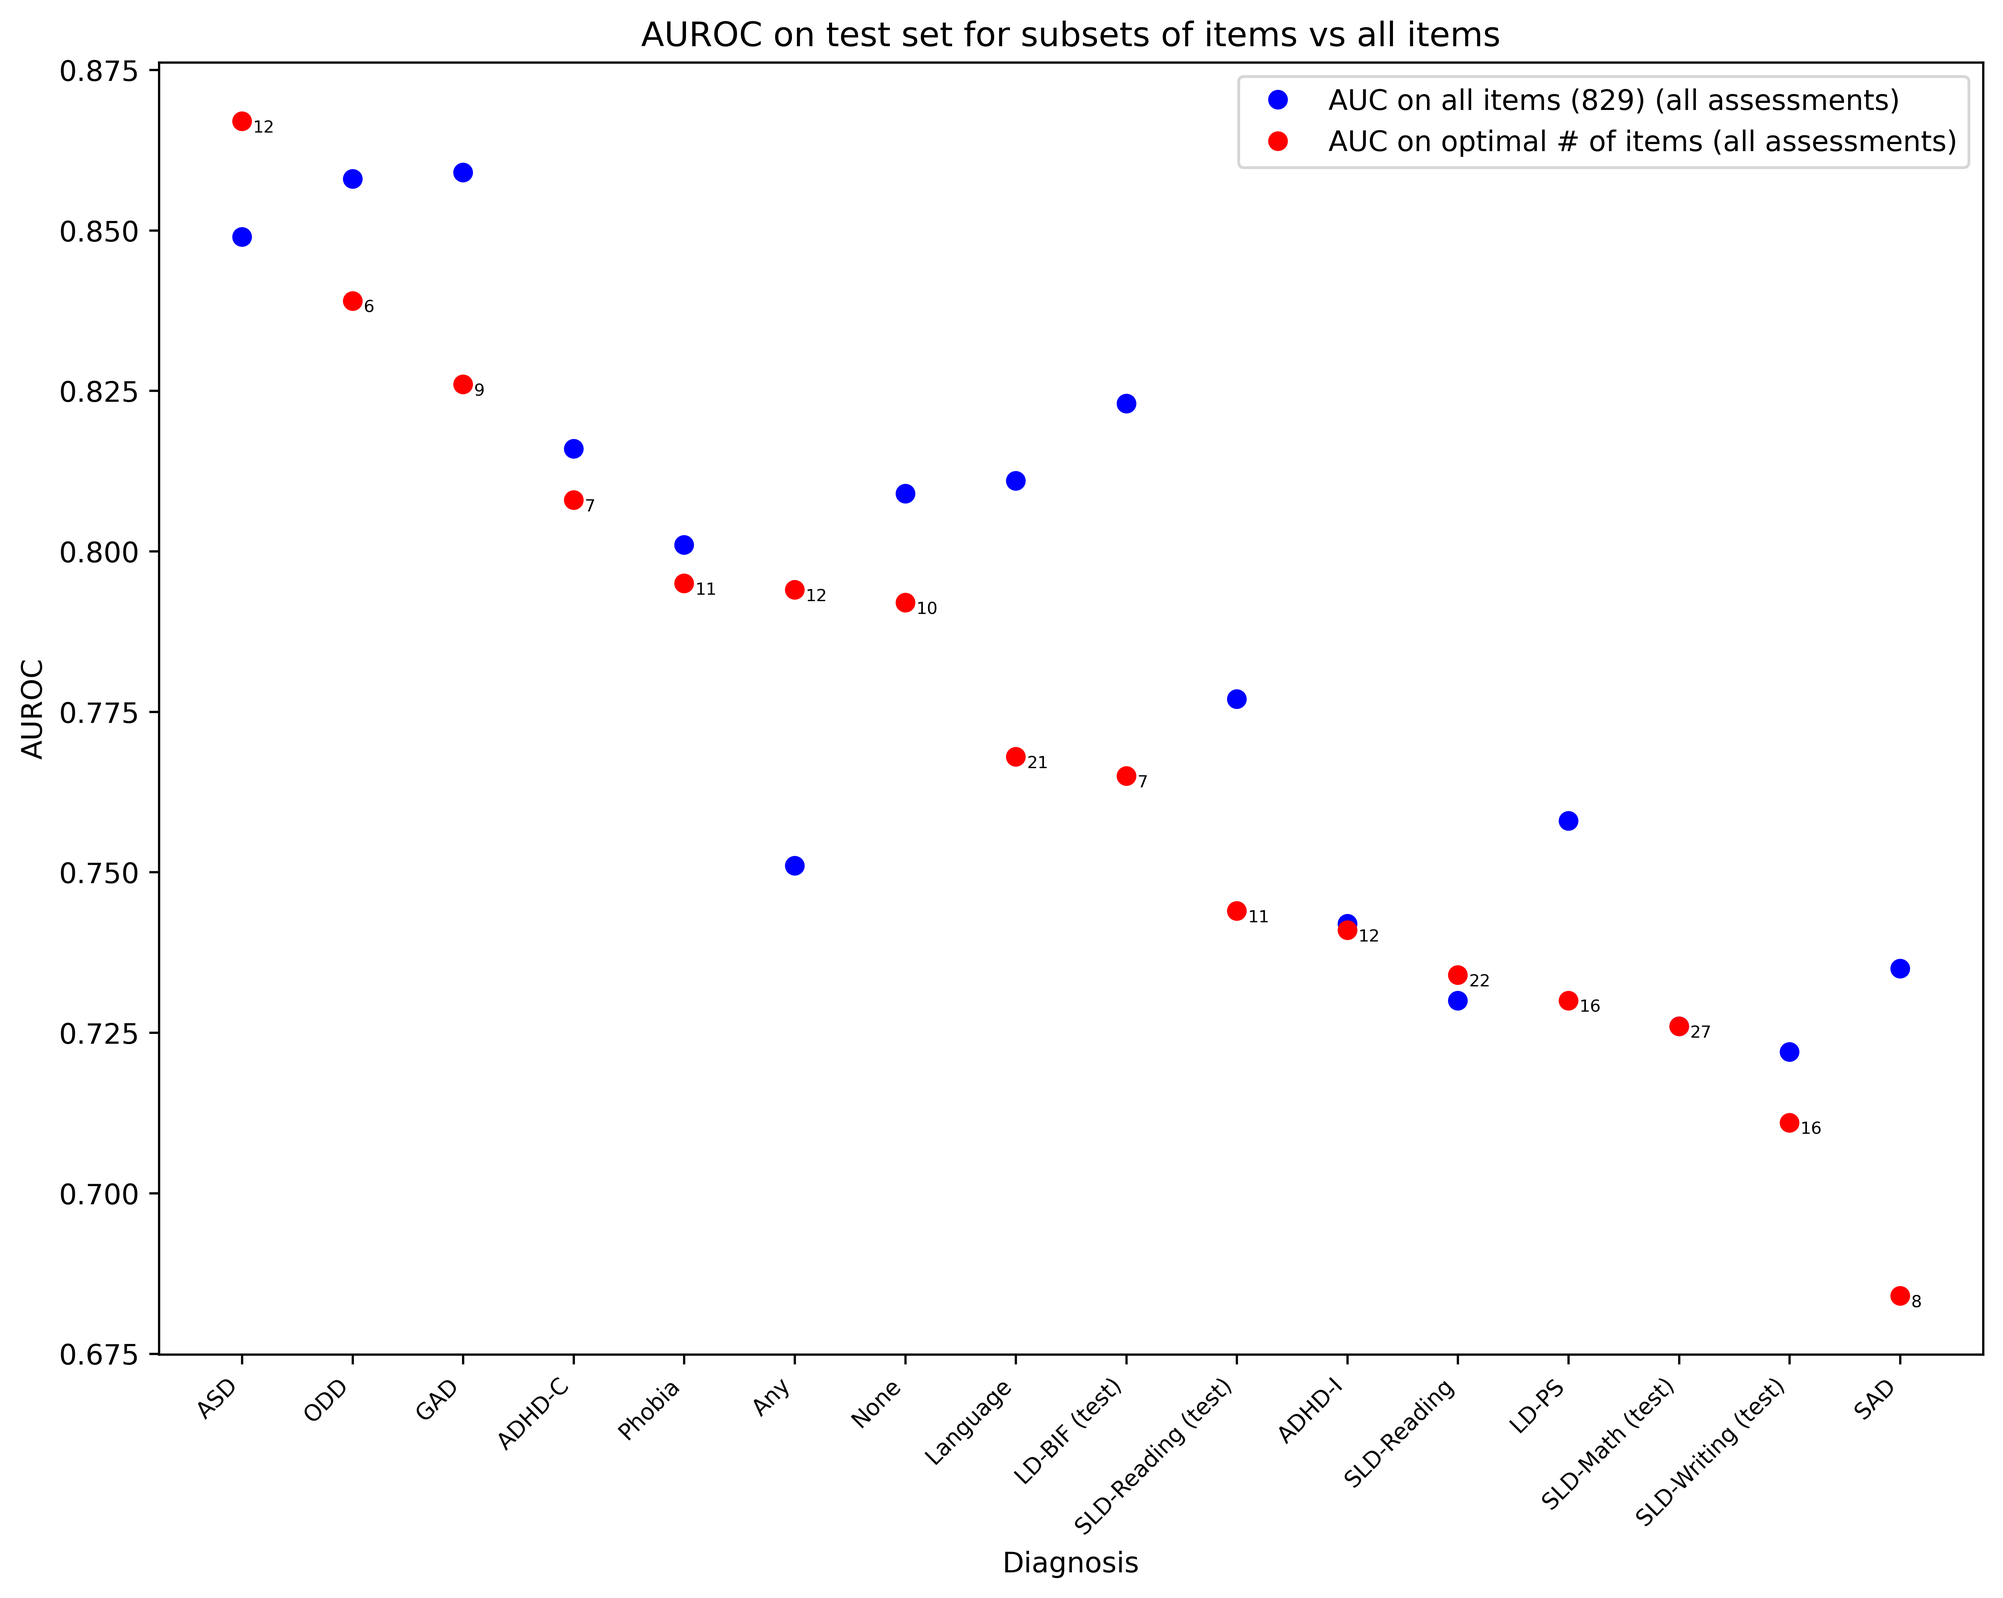
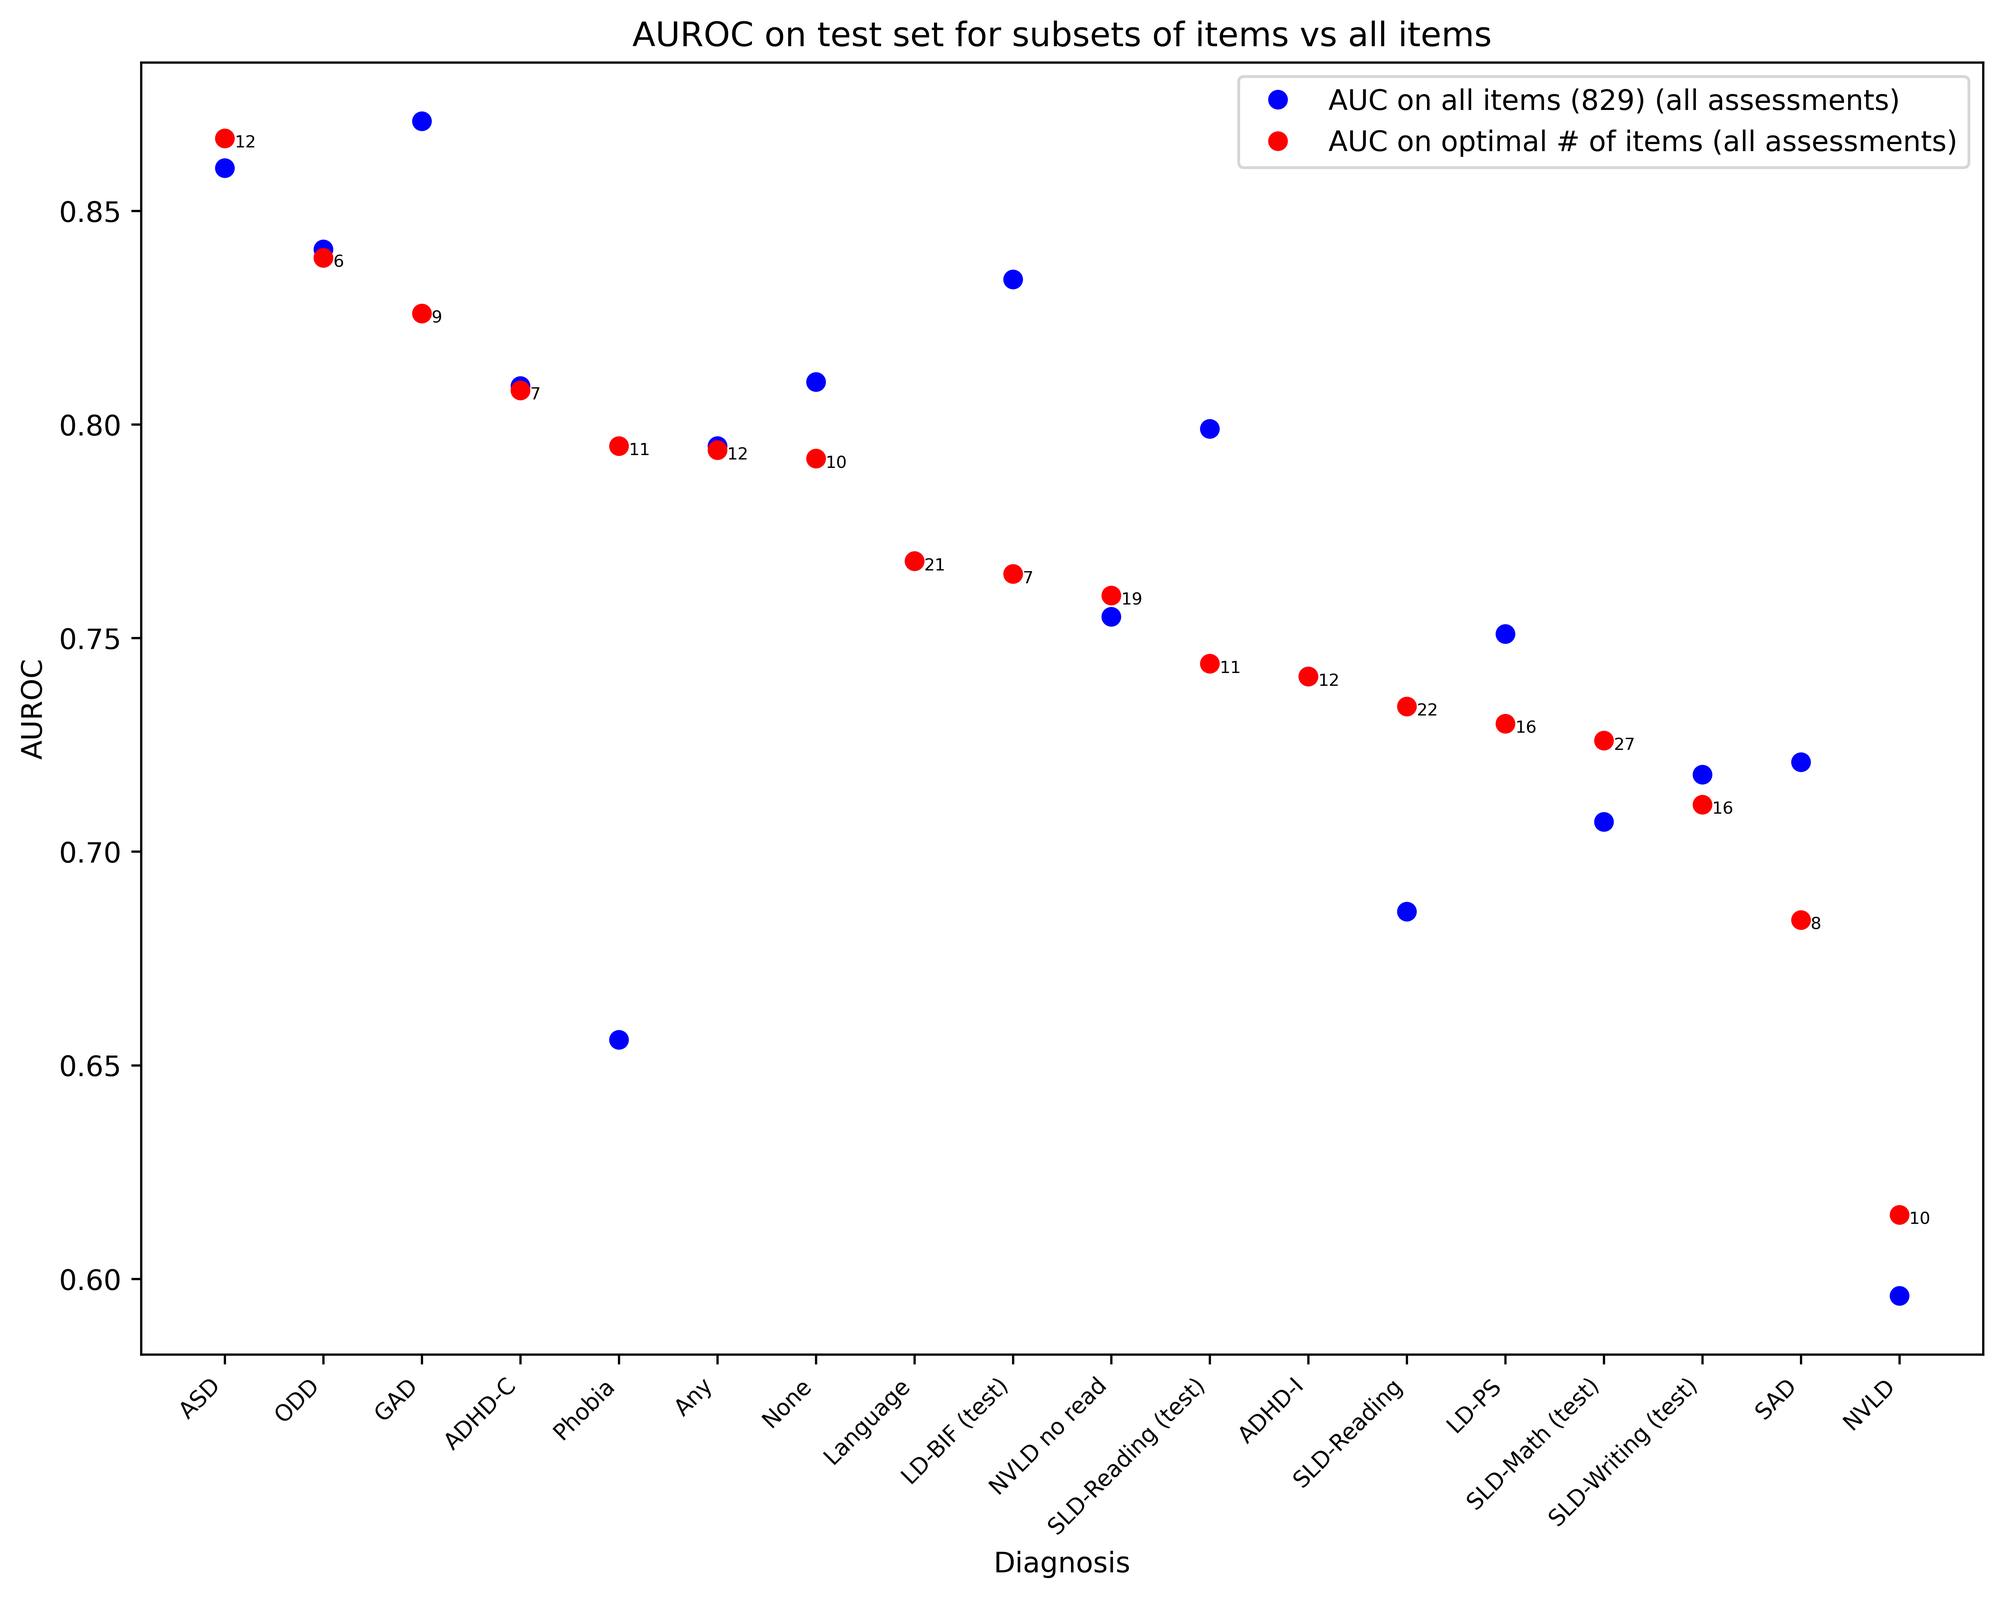
plot free assessments for sum scores and manual scoring

diff --git a/make_plots.py b/make_plots.py
@@ -81,28 +81,40 @@ def plot_eval_orig(eval_orig_df, filename, plot_free_assessments=False, plot_cv=
     make_dir_if_not_exists(output_dir)
     plt.savefig(output_dir + filename, bbox_inches="tight", dpi=600)
 
-def plot_manual_vs_ml(eval_subsets_df):
+def plot_manual_vs_ml(eval_subsets_df, plot_free_assessments=False):
     print("DEBUG", eval_subsets_df)
     eval_subsets_df = eval_subsets_df.sort_values(by="Best subscale score", ascending=False)
     
     plt.figure(figsize=(10, 8))
     plt.title("AUROC on test set for subsets of features")
     plt.plot(eval_subsets_df["Best subscale score"], label="AUROC of best subscale (+ # of items to reach it with ML)", marker="o", linestyle="", color="red")
-    plt.plot(eval_subsets_df["ML score at # of items of best subscale (all assessments)"], label="AUROC of ML model on # of items in best subscale (+ # of items in best subscale) (all assessments)", marker="o", linestyle="", color="blue")
+    plt.plot(eval_subsets_df["ML score at # of items of best subscale (all assessments)"], label="AUROC of ML model on # of items in best subscale (all assessments)", marker="o", linestyle="", color="blue")
+    if plot_free_assessments:
+        plt.plot(eval_subsets_df["ML score at # of items of best subscale (free assessments)"], label="AUROC of ML model on # of items in best subscale (free assessments)", marker="o", linestyle="", color="blue", markerfacecolor='none')
     plt.xticks(rotation=45, ha="right", size=8)
     plt.legend(loc="upper right")
     plt.ylabel("AUROC")
     plt.xlabel("Diagnosis")
 
     # Print number of items next to AUC scores to the right of the markers
-    for i, row in eval_subsets_df.iterrows():
-        #plt.text(i, row["AUC all assessments"]+0.01, str(row["Optimal # of features all assessments"]), ha="left", va="center", size=8)
-        plt.text(i, row["ML score at # of items of best subscale (all assessments)"]+0.01, str(row["# of items in best subscale"]), ha="center", va="bottom", size=8, color="blue")
-        plt.text(i, row["Best subscale score"]-0.01, str(row["# of items to reach best subscale (all assessments)"]), ha="center", va="top", size=8, color="blue")
+    if not plot_free_assessments:
+        for i, row in eval_subsets_df.iterrows():
+            #plt.text(i, row["AUC all assessments"]+0.01, str(row["Optimal # of features all assessments"]), ha="left", va="center", size=8)
+            plt.text(i, row["ML score at # of items of best subscale (all assessments)"]+0.01, str(row["# of items in best subscale"]), ha="center", va="bottom", size=8, color="blue")
+            plt.text(i, row["Best subscale score"]-0.01, str(row["# of items to reach best subscale (all assessments)"]), ha="center", va="top", size=8, color="blue")
+    else:
+        for i, row in eval_subsets_df.iterrows():
+            plt.text(i, row["Best subscale score"]-0.01, str(row["# of items to reach best subscale (free assessments)"]), ha="center", va="top", size=8, color="blue", alpha=0.5)
     
     # Append best subscale name to the diag name on x axis
-    eval_subsets_df["Best subscale"] = eval_subsets_df["Best subscale"].str.split(",").str[1] # Remove prefix before , from subscale names
-    plt.xticks(range(len(eval_subsets_df.index)), eval_subsets_df.index + " (" + eval_subsets_df["Best subscale"] + ")", rotation=45, ha="right", size=8)
+    plt.xticks(range(len(eval_subsets_df.index)), (
+        eval_subsets_df.index +
+        " (" + 
+        eval_subsets_df['Best subscale'] + 
+        ", " + 
+        eval_subsets_df['# of items in best subscale'].astype(str) + 
+        ")"
+        ), rotation=45, ha="right", size=8)
     plt.xlabel("Diagnosis (best subscale)")
 
     plt.tight_layout()
@@ -213,12 +225,14 @@ def plot_what_improves_LD(check_what_improves_LD_df):
 
     plt.savefig("output/viz/what_improves_LD_cumulative.png", dpi=600)
 
-def plot_sum_scores_vs_subscales(sum_scores_df):
+def plot_sum_scores_vs_subscales(sum_scores_df, sum_scores_free_df = None):
     # Plot AUC of sum scores vs AUC of best subscales, add number of items in best subscale to the right of the marker
     plt.figure(figsize=(10, 8))
     plt.title("AUROC of new screener vs best existing subscale")
     plt.plot(sum_scores_df["Best subscale score"], label="AUROC of best subscale", marker="o", linestyle="", color="blue")
     plt.plot(sum_scores_df["AUROC"], label="AUROC of new screener", marker="o", linestyle="", color="red")
+    if sum_scores_free_df is not None:
+        plt.plot(sum_scores_free_df["AUROC"], label="AUROC of new screener (free assessments)", marker="o", linestyle="", color="red", markerfacecolor='none')
     plt.xticks(rotation=45, ha="right", size=8)
     plt.legend(loc="upper right")
     plt.ylabel("AUROC")
@@ -248,6 +262,7 @@ def main():
     compare_orig_subsets_learning_df = data_reader.read_data("compare_orig_vs_subsets_learning")
     what_improves_LD_df = data_reader.read_data("what_improves_LD")
     sum_scores_df = data_reader.read_data("sum_score_aurocs")
+    sum_scores_free_df = data_reader.read_data("sum_score_aurocs_free")
 
     # Read thresholds data from diagnosis_predictor_data (all assessments)
     thresholds_filename = "Diag.Specific Learning Disorder with Impairment in Reading (test).csv"
@@ -261,6 +276,7 @@ def main():
     compare_orig_subsets_learning_df = compare_orig_subsets_learning_df.rename(index=diagnosis_dict)
     what_improves_LD_df = what_improves_LD_df.rename(index=diagnosis_dict)
     sum_scores_df = sum_scores_df.rename(index=diagnosis_dict)
+    sum_scores_free_df = sum_scores_free_df.rename(index=diagnosis_dict)
 
     # Make all columns except those that start with ROC AUC into ints (if not NA) (bug in pd)
     for col in what_improves_LD_df.columns:
@@ -275,16 +291,21 @@ def main():
         print(col)
         if not "AUC" in col and not "AUROC" and not "score" in col and not "Best subscale" in col:
             sum_scores_df[col] = sum_scores_df[col].astype('Int64')
-
+    for col in sum_scores_free_df.columns:
+        print(col)
+        if not "AUC" in col and not "AUROC" and not "score" in col and not "Best subscale" in col:
+            sum_scores_free_df[col] = sum_scores_free_df[col].astype('Int64')
 
     plot_eval_orig(compare_orig_subsets_df, filename="ROC_AUC_all_features.png", plot_free_assessments=False)
     plot_eval_orig(compare_orig_subsets_learning_df, filename="ROC_AUC_all_features_learning.png", plot_free_assessments=False)
     plot_manual_vs_ml(compare_orig_subsets_df)
+    plot_manual_vs_ml(compare_orig_subsets_df, plot_free_assessments=True)
     plot_opt_num_features(compare_orig_subsets_df, filename="ROC_AUC_optimal_vs_all_features.png", plot_free_assessments=False)
     plot_opt_num_features(compare_orig_subsets_learning_df, filename="ROC_AUC_optimal_vs_all_features_learning.png", plot_free_assessments=False)
     plot_thresholds(thresholds_df, thresholds_filename.split(".")[0])
     plot_what_improves_LD(what_improves_LD_df)
     plot_sum_scores_vs_subscales(sum_scores_df)
+    plot_sum_scores_vs_subscales(sum_scores_df, sum_scores_free_df)
 
 if __name__ == "__main__":
     main()

diff --git a/score_manually.py b/score_manually.py
@@ -146,10 +146,12 @@ def find_best_manual_score_for_diag(all_manual_scores_df, diags):
     return best_manual_scores_df
 
 # Compare with ML scores
-def read_ml_scores():
+def read_ml_scores(free=False):
     path = "../diagnosis_predictor_data/reports/evaluate_models_on_feature_subsets/"
+    free_param = "only_free_assessments__1" if free else "only_free_assessments__0"
+    
     path_all_assessments = get_newest_non_empty_dir_in_dir(path, ["first_assessment_to_drop",
-                                                                  "only_free_assessments__0",
+                                                                  free_param,
                                                                   "learning?__0",
                                                                   ])
     print("Reading report from: ", path_all_assessments)
@@ -157,7 +159,7 @@ def read_ml_scores():
 
     return ml_scores_all_assessments
 
-def compare_ml_scores_with_best_manual_scores(best_manual_scores_df, ml_scores_all_assessments, diags):
+def compare_ml_scores_with_best_manual_scores(best_manual_scores_df, ml_scores_all_assessments, ml_scores_free_assessments, diags):
     ml_scores_at_num_features = {}
     for diag_col in diags:
         best_manual_score = best_manual_scores_df[best_manual_scores_df["Diag"] == diag_col]["AUC"].values[0]
@@ -168,15 +170,19 @@ def compare_ml_scores_with_best_manual_scores(best_manual_scores_df, ml_scores_a
         print("DEBUG: ", number_of_items_in_best_manual_subscale)
         number_of_items_to_check = number_of_items_in_best_manual_subscale if number_of_items_in_best_manual_subscale <= 27 else 27
         ml_score_at_number_of_items_of_best_manual_subscale_all_assessments = ml_scores_all_assessments[ml_scores_all_assessments["Number of features"] == number_of_items_to_check][diag_col].values[0]
+        ml_score_at_number_of_items_of_best_manual_subscale_free_assessments = ml_scores_free_assessments[ml_scores_free_assessments["Number of features"] == number_of_items_to_check][diag_col].values[0]
 
         # Find number of items needed to reach performance of the best subscale    
         number_of_items_for_ml_score_of_best_manual_subscale_all_assessments = ml_scores_all_assessments[ml_scores_all_assessments[diag_col] >= best_manual_score]["Number of features"].min()
+        number_of_items_for_ml_score_of_best_manual_subscale_fee_assessments = ml_scores_all_assessments[ml_scores_free_assessments[diag_col] >= best_manual_score]["Number of features"].min()
 
         ml_scores_at_num_features[diag_col] = [best_manual_score_subscale_short, 
                                                best_manual_score, 
                                                number_of_items_in_best_manual_subscale, 
                                                ml_score_at_number_of_items_of_best_manual_subscale_all_assessments, 
                                                number_of_items_for_ml_score_of_best_manual_subscale_all_assessments,
+                                               ml_score_at_number_of_items_of_best_manual_subscale_free_assessments,
+                                               number_of_items_for_ml_score_of_best_manual_subscale_fee_assessments
                                                ]
 
     ml_scores_at_num_features_df = pd.DataFrame.from_dict(ml_scores_at_num_features, orient='index', columns=[
@@ -185,6 +191,8 @@ def compare_ml_scores_with_best_manual_scores(best_manual_scores_df, ml_scores_a
         "# of items in best subscale", 
         "ML score at # of items of best subscale (all assessments)",
         "# of items to reach best subscale (all assessments)",
+        "ML score at # of items of best subscale (free assessments)",
+        "# of items to reach best subscale (free assessments)",
         ]).sort_values(by="Best subscale score", ascending=False)
     return ml_scores_at_num_features_df
 
@@ -201,8 +209,9 @@ def main():
 
     best_manual_scores_df = find_best_manual_score_for_diag(all_manual_scores_df, diags)
 
-    ml_scores_all_assessments = read_ml_scores()
-    comparison_table = compare_ml_scores_with_best_manual_scores(best_manual_scores_df, ml_scores_all_assessments, diags)
+    ml_scores_all_assessments = read_ml_scores(free=False)
+    ml_scores_free_assessments = read_ml_scores(free=True)
+    comparison_table = compare_ml_scores_with_best_manual_scores(best_manual_scores_df, ml_scores_all_assessments, ml_scores_free_assessments, diags)
     comparison_table.to_csv(output_dir + "manual_subsale_scores_vs_ml.csv", float_format='%.3f')
 
 if __name__ == "__main__":

diff --git a/data_reading.py b/data_reading.py
@@ -17,6 +17,7 @@ class DataReader:
         "compare_orig_vs_subsets_learning": None,
         "what_improves_LD": None,
         "sum_score_aurocs": None,
+        "sum_score_aurocs_free": None,
     }
     PARAM_TO_PATH_MAPPING = {
         "multiple_assessments": "first_assessment_to_drop",
@@ -64,6 +65,8 @@ class DataReader:
             return self._read_thresholds(filename)
         elif data_type == "sum_score_aurocs":
             return self._read_sum_score_aurocs()
+        elif data_type == "sum_score_aurocs_free":
+            return self._read_sum_score_aurocs(free=True)
         else:
             raise ValueError("data_type not recognized: ", data_type)
         
@@ -97,8 +100,10 @@ class DataReader:
     def _read_thresholds(self, filename):
         return pd.read_csv(self.data_path + "sens-spec-on-subsets-test-set-optimal-nb-features/" + filename, index_col=0)
     
-    def _read_sum_score_aurocs(self):
-        return pd.read_csv("output/sum_score_aurocs.csv", index_col=0)
+    def _read_sum_score_aurocs(self, free=False):
+        return pd.read_csv(
+            "output/sum_score_aurocs_multiple_assessments_free_assessments_learning_and_consensus_diags.csv", index_col=0) if free else pd.read_csv(
+            "output/sum_score_aurocs_multiple_assessments_all_assessments_learning_and_consensus_diags.csv", index_col=0)
     
     def _generate_data_path(self):
         return self._get_newest_non_empty_dir_in_dir(

diff --git a/make_sum_scores.py b/make_sum_scores.py
@@ -65,7 +65,7 @@ class SumScorer():
         aurocs_df = aurocs_df.sort_values(by="Best subscale score", ascending=False)
 
         # Save to csv
-        aurocs_df.to_csv("output/sum_score_aurocs.csv")
+        aurocs_df.to_csv(f"output/sum_score_aurocs_{'_'.join(self.params)}.csv")
 
     def _make_sum_score(self, coef_df):
         # Sum up responses from self.item_lvl to items with a positive coefficient, and subtract responses from items with a negative coefficient, 
@@ -76,6 +76,8 @@ class SumScorer():
         # Drop items that have range of values > 6
         to_add_up = [item for item in to_add_up if self.item_lvl[item].max() - self.item_lvl[item].min() <= 6]
         to_subtract = [item for item in to_subtract if self.item_lvl[item].max() - self.item_lvl[item].min() <= 6]
+
+        print("to_add_up", to_add_up)
 
         sum_score = self.item_lvl[to_add_up].sum(axis=1) - self.item_lvl[to_subtract].sum(axis=1)
         return sum_score
@@ -129,4 +131,7 @@ class SumScorer():
 
 if __name__ == "__main__":
     sum_scorer = SumScorer(params = ["multiple_assessments", "all_assessments", "learning_and_consensus_diags"])
+    sum_scorer.make_sum_scores()
+
+    sum_scorer = SumScorer(params = ["multiple_assessments", "free_assessments", "learning_and_consensus_diags"])
     sum_scorer.make_sum_scores()

diff --git a/make_final_tables.py b/make_final_tables.py
@@ -38,6 +38,8 @@ def make_df_to_plot_eval_subsets(df_manual, df, df_free = None):
     if "(test)" not in df.index[0]:
         df = df.merge(df_manual, left_index=True, right_index=True).sort_values(by="Best subscale score", ascending=False)
 
+    print("DEBUG", df.columns)
+
     return df
 
 def make_df_ds_stats(df, df_free = None):
@@ -77,6 +79,8 @@ def make_dfs(data_reader):
     
     # Manual scoring
     dfs["manual_scoring"] = data_reader.read_data(data_type="manual_scoring")
+
+    print("DEBUG", dfs)
 
     return dfs
 
